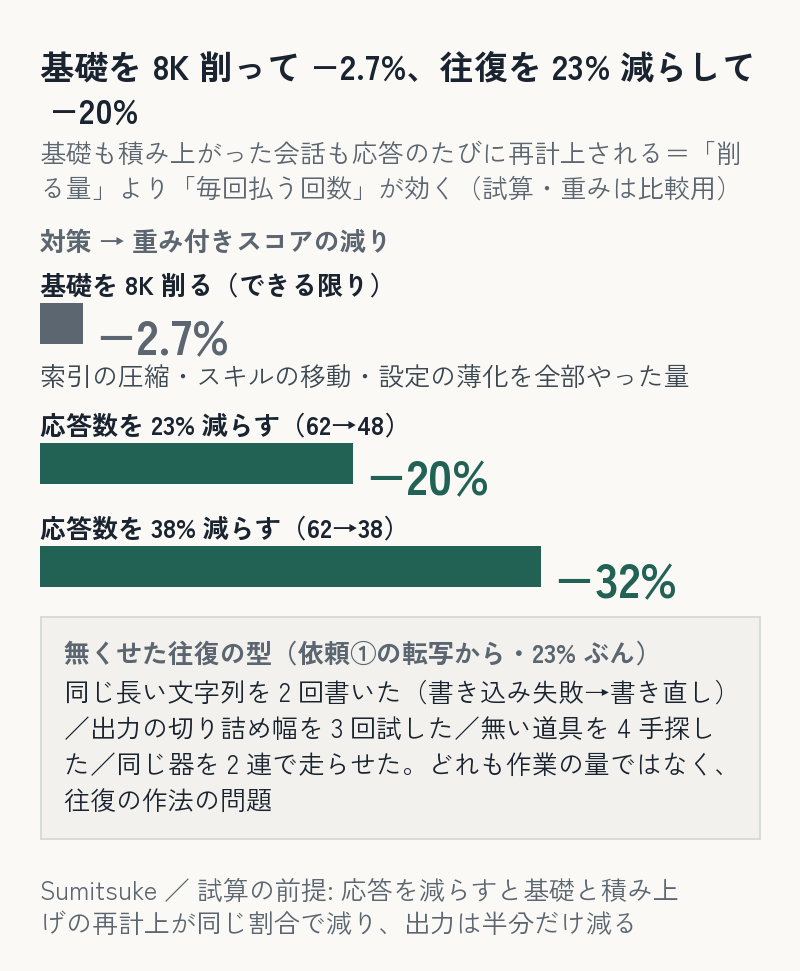
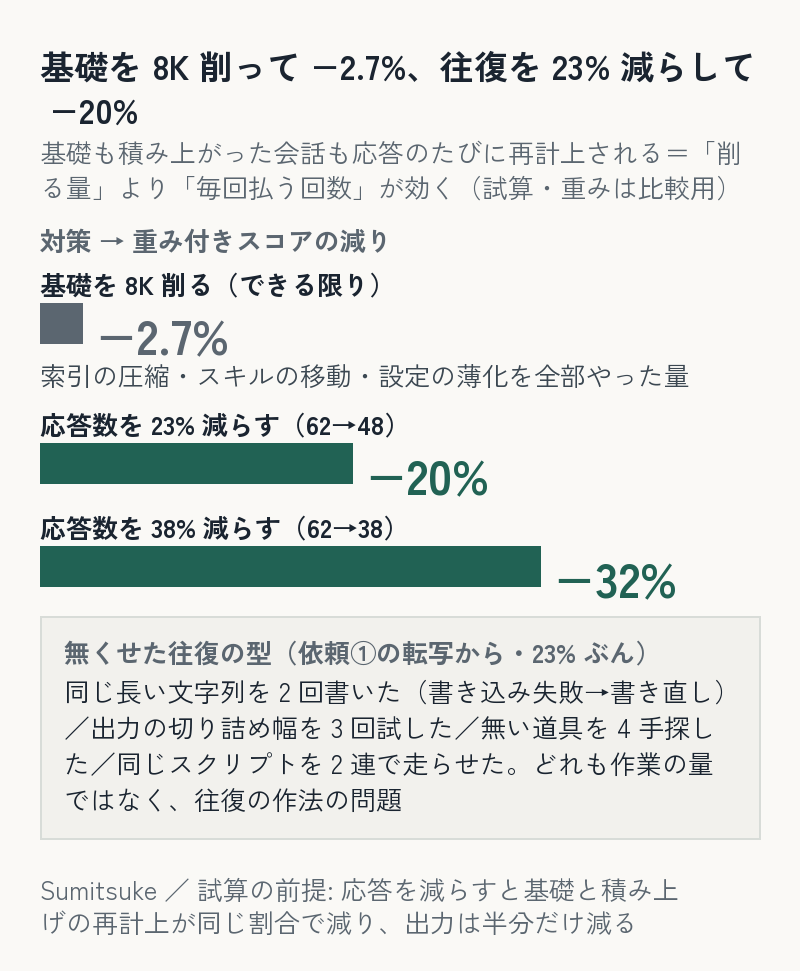
再デプロイ（未公開 1 本: wordpress-handover-admin-vs-wpcli／待ち行列から 1 本: where-tokens-go-claude-code）

Changed region(s): [[0.0625, 0.7724, 0.9062, 0.8342]]

diff --git a/articles/where-tokens-go-claude-code.md b/articles/where-tokens-go-claude-code.md
@@ -1,0 +1,157 @@
+---
+title: "Claude Code の 1 依頼で消えた usage を応答単位で数えたら、寄与が大きいのは基礎の削減でなく往復の数だった（試算）"
+emoji: "🧾"
+type: "tech"
+topics: ["ClaudeCode", "LLM", "生成AI", "開発プロセス", "Python"]
+published: true
+---
+
+
+Claude Code を 1 日使うと、トークンがどこかへ大量に消えます。私は「基礎のコンテキスト（CLAUDE.md・記憶・道具一覧など）が 9 万トークンもあるから」と思い、まず基礎を削りました。試算したら **−2.7%**。usage を応答単位に分解し直したら、効いていたのは**往復（API 応答）の数**でした。往復を 23% 減らす試算は **−20%**。ただし、基礎を削ったあとや往復を減らしたあとの usage を測り直してはいません。**この記事の % は全て、転写からの試算**です。
+
+一番の教訓は「削る前に、課金と usage の単位を間違えていないか確かめる」でした。私は転写を**行**で数えて誤診しています。
+
+**先に断っておくこと**: この記事の 35／20／45% や −2.7／−20／−32% は、**生のトークン数の比率ではなく、比較用の重みを掛けた usage スコアの内訳**です。重みは「キャッシュ読み 0.1／キャッシュ書き 2／出力 5／入力 1」で、料金表でも公式仕様でもありません。生のトークン数は別に表で出します。
+
+**この記事の位置づけ**（2026-09-26 追記）
+
+- この記事で新しく示すこと: usage を転写の行でなく応答（message.id）単位で分けると、重心が基礎の再計上から会話の再計上へ動いたこと。削る試算（−2.7%）と往復を減らす試算（−20%）の比較。
+- 当てはまる範囲: 当方の 1 依頼（62 応答）と同じセッション全体。Claude Code 2.1.270・モデル claude-opus-5（1 依頼の 106 行すべてで同じ）。重みは比較用の仮置きで、料金の実額とは照合していません。
+
+## 先に結論
+
+- 1 依頼（定型の事務作業・62 応答）の重み付きスコアの内訳＝**基礎相当量の再計上 35%／自分の出力 20%／積み上がった会話の再計上ほか 45%**。「基礎相当量」＝1 応答目に載っていた cache_creation＋cache_read（89,507）で、指示書・道具一覧・設定・記憶などの proxy。各部位の内訳は測っていない。
+- 基礎を 8K トークン削る試算＝**−2.7%**。応答数を 23% 減らす試算＝**−20%**（38% なら −32%）。**この転写とこの比較モデルでは**、基礎 8K の削減より不要な往復の削減の寄与が大きかった——言えるのはここまで（Claude Code 一般の比率ではない）。
+- 理由は、基礎も積み上がった会話も**応答のたびに usage 上で再計上される**から。削る量より「毎回払う回数」が効く。
+- 最初は転写を**行**で数えて 42／39／18% と出し、「出力が重い」と誤診した。1 応答は複数行に分かれて記録され、各行が同じ usage を持つ。`message.id` で 1 応答 1 回に直すと 35／20／45%。
+
+![1 依頼（62 応答）の usage。生のトークン数では 97% がキャッシュ読み。比較用の重みを掛けたスコアでは、基礎の再計上 35%・出力 20%・積み上がった会話の再計上ほか 45%。行で数えた最初の集計 42／39／18% は二重計上](/images/where-tokens-go-claude-code/n1_breakdown.png)
+
+## 転写はどこにあり、何が書いてあるか
+
+```
+~/.claude/projects/<プロジェクト名>/<セッションID>.jsonl
+```
+
+`type == "assistant"` の行の `message.usage` に、その応答の `input_tokens`／`cache_creation_input_tokens`／`cache_read_input_tokens`／`output_tokens` が入っています。
+
+罠が 1 つ。**1 つの API 応答が複数行に分かれて記録されます**（思考・本文・tool_use がそれぞれ 1 行）。各行が同じ `usage` を持つ。今回の依頼①は 62 応答で 106 行＝行で足すと **1.7 倍**に膨らみます。1 応答を 1 回だけ数える鍵は `message.id` です。
+
+## 集計スクリプト（外部依存なし）
+
+```python
+import json, sys, collections
+
+W = dict(input=1.0, cache_creation=2.0, cache_read=0.1, output=5.0)  # 比較用の重み。料金表ではない
+
+seen = collections.OrderedDict()
+for line in open(sys.argv[1], encoding="utf-8"):
+    d = json.loads(line)
+    if d.get("type") != "assistant":
+        continue
+    m = d["message"]; u = m.get("usage") or {}
+    if not u or m["id"] in seen:          # 同じ応答の 2 行目以降は数えない
+        continue
+    seen[m["id"]] = dict(input=u.get("input_tokens", 0),
+                         cache_creation=u.get("cache_creation_input_tokens", 0),
+                         cache_read=u.get("cache_read_input_tokens", 0),
+                         output=u.get("output_tokens", 0))
+
+resp = list(seen.values()); N = len(resp)
+c0, r0 = resp[0]["cache_creation"], resp[0]["cache_read"]
+base = c0 + r0                                   # 1 応答目に載っていたもの＝基礎
+tot = {k: sum(r[k] for r in resp) for k in W}
+raw = sum(tot.values())
+eff = sum(tot[k] * W[k] for k in W)
+base_eff = c0*W["cache_creation"] + r0*W["cache_read"] + base*W["cache_read"]*(N-1)  # 1 応答目は書き、以後は読み
+out_eff = tot["output"] * W["output"]
+rest = eff - base_eff - out_eff
+print(f"応答 {N} 回／基礎 {base:,} トークン")
+print("生トークン: " + " ".join(f"{k} {100*tot[k]/raw:.0f}%" for k in W))
+print(f"重み付きスコア {eff/1e6:.2f}M: 基礎の再計上 {100*base_eff/eff:.0f}%／出力 {100*out_eff/eff:.0f}%／積み上げの再計上ほか {100*rest/eff:.0f}%")
+print(f"基礎を 8K 削ると {100*8000*W['cache_read']*(N-1)/eff:.1f}% 減")
+cc_acc = tot["cache_creation"] - c0; cr_acc = tot["cache_read"] - r0 - base*(N-1)
+for cut in (0.23, 0.38):
+    e2 = (tot["input"] + c0*2 + r0*0.1 + cc_acc*2*(1-cut)
+          + (base*(N-1) + cr_acc)*0.1*(1-cut) + tot["output"]*5*(1-cut*0.5))   # 出力は半分だけ減ると仮定
+    print(f"応答を {int(cut*100)}% 減らすと {100*(1-e2/eff):.0f}% 減")
+```
+
+1 応答目は基礎を「書き」（cache_creation）、2 応答目以降は「読み」（cache_read）として数えます。最初の版はこの 1 応答目を書きと読みの両方で数えていましたが、直しても内訳は 44→45% が動いただけで、試算の値は変わりませんでした。
+
+⚠ 区間の端は **21:40:00〜22:16:00（UTC）** で切っています。終わりを 22:16:59.000 まで延ばすと 2 応答増えて **64 応答・110 行**、22:17:00 の手前まで（終わりの 1 分を丸ごと）延ばすと **65 応答・111 行**になり、内訳は 34／20／46% に動きます。試算は、基礎 −8K が −2.7%、応答 −23% が −20% のまま、−38% が −32.3% から −32.5% に動く程度（1 ポイント以内）の違いでした。
+
+## 依頼①の結果
+
+まず生のトークン数（重みなし）。
+
+| 種別 | トークン | 比率 |
+|---|---|---|
+| cache_read | 10,335,693 | **97%** |
+| cache_creation | 201,267 | 2% |
+| output | 73,735 | 1% |
+| input | 124 | 0% |
+
+数だけ見れば 97% がキャッシュ読みです。これに重みを掛けたスコア（合計 約 1.80M）の内訳がこちら。
+
+| 項目 | 値 |
+|---|---|
+| 応答数（`message.id` の一意数） | 62（うち本文だけの応答 1） |
+| 基礎相当量（1 応答目の cache_creation＋cache_read・基礎の proxy） | 89,507 トークン |
+| 基礎の再計上 | **35%** |
+| 自分の出力 | **20%** |
+| 積み上がった会話の再計上ほか | **45%** |
+
+依頼①は「公開ページを読んで台帳に記帳する」類の定型作業で、道具の呼び出しは 61 回（すべて 1 応答に 1 個）でした。
+
+## 試算: 何を減らすと効くか
+
+| 対策 | 試算 |
+|---|---|
+| 基礎を 8K 削る（記憶の索引を圧縮・使わないスキルを外す・設定ファイルを薄くする、を全部） | **−2.7%** |
+| 応答数を 23% 減らす（62→48） | **−20%** |
+| 応答数を 38% 減らす（62→38） | **−32%** |
+
+![基礎を 8K 削ると −2.7%、応答数を 23% 減らすと −20%、38% 減らすと −32%。無くせた往復の型は、同じ長い文字列を 2 回書いた・出力の切り詰め幅を 3 回試した・無い道具を 4 手探した・同じスクリプトを 2 連で走らせた](/images/where-tokens-go-claude-code/n1_lever.png)
+
+基礎 8K は「できる限り削った量」です。それでも 2.7%。応答を減らすと**基礎の再計上と積み上げの再計上の両方**が減るので、−2.7% に対して −20% と、約 7 倍効く計算です。試算の前提は「応答を減らすと積み上げの再計上も同じ割合で減り、出力は半分だけ減る」で、上のスクリプトの `cut` の式がそれです。
+
+**重みを振っても順位は変わるか（感度・09-16 に 1 回）**: 同じ転写で重みを 7 通り（本文の 0.1／2／5／1、料金比に近い 0.1／1.25／5／1、cache_read 0.05 と 0.2、output 3 と 10、等重み 1／1／1／1）に振ると、基礎 8K の削減は **−1.9〜−4.6%**、応答 23% 減は **−18〜−23%**、38% 減は **−30〜−38%**。内訳の比率（基礎 28〜52%・出力 1〜34%）は重みでかなり動くので、35／20／45 という数字自体に意味を持たせないでください。動かないのは「削る量より払う回数」の順位だけです。
+
+23% は、依頼①の転写を見直して「無くせた往復」を数えた値です。型は 4 つ——同じ長い文字列を 2 回書いた（書き込みに失敗して書き直し）、出力の切り詰め幅を 3 回試した、無い道具を 4 手探した、同じスクリプトを 2 連で走らせた。どれも作業の量ではなく、往復の作法の問題でした。62→48 の 14 往復を型ごとの件数に割った内訳は、この記事には載せていません（何を「無くせた往復」と数えるかは、転写を見直した私の判断です）。
+
+## 自分の Claude Code が重いときの確認順
+
+1. **単位を確かめる**——応答数を `message.id` で数える（行で数えない）
+2. 基礎相当量（1 応答目の cache_creation＋cache_read）を見る
+3. 出力の合計を見る
+4. 積み上がった会話（cache_read − 基礎×(N−1)、cache_creation の増分）を見る
+5. **「削る量 × 毎回払う回数」で優先順位を決める**——基礎を X 削れば X×0.1×(N−1)、応答を 1 回減らせば（基礎＋積み上げ）×0.1
+
+## 誤解しやすい点
+
+- **行数≠応答数**。私は最初に行で数え、出力の重みも二重に足して「出力が 39%」と出した。id で数え直すと 62 応答・出力 20%。
+- **35／20／45 はトークン数の比率ではない**。重み付きスコアの比率。生のトークンでは 97% がキャッシュ読み。
+- **キャッシュ読みは、この比較モデルではゼロ扱いしない**。0.1 倍でも応答数ぶん積む。
+- **会話を分けても基礎は減らない**。新しい会話でも毎応答同じ基礎が再計上される。減るのは積み上がった分だけ。
+- **積み上げ 45% は「情報収集が無駄」ではない**。作業の量そのもの。無駄だったのは往復の数のほう。
+- 長いセッションほど積み上げの再計上が支配的になる（同じセッション全体 232 応答の時点で 71%）。往復の効きは増す。
+
+## 往復を減らすには
+
+独立な道具の呼び出しを同じ応答に並べる、失敗の撃ち直しをなくす、無い道具を探し回らない。その行動をどう変え、変わったことをどう測ったかは[次の記事](https://sumitsuke.jp/via/zenn/lab/tool-calls-batched-or-not/)に書きます。ここでは「往復数の寄与が大きいと試算された」までにします。
+
+Lab 版（何を誤診し、どう数え直して結論が動いたかの記録）: https://sumitsuke.jp/via/zenn/lab/where-tokens-go-claude-code/
+
+---
+
+### AI の利用について
+
+集計スクリプトの下書きとこの記事の下書きには AI（Claude）を使いました。数字（62・61・106・89,507・97／2／1・35／20／45・−2.7／−20／−32）は自分の転写から集計した値で、判断と公開は自分で行っています。転写に含まれる案件の中身は記事に書いていません。
+
+### 受託でも同じ運用をしています
+
+「重い」を感覚で扱わず、単位を確かめてから応答単位の数字で優先順位を決めます。相談はテキストだけで完結します。
+▶ [Sumitsuke ／ 依頼から納品までの流れ](https://sumitsuke.jp/works/flow/)
+
+次に読む: [測ったあと、規律が本当に守られていたかを同じ転写で数える](https://sumitsuke.jp/via/zenn/lab/tool-calls-batched-or-not/)
